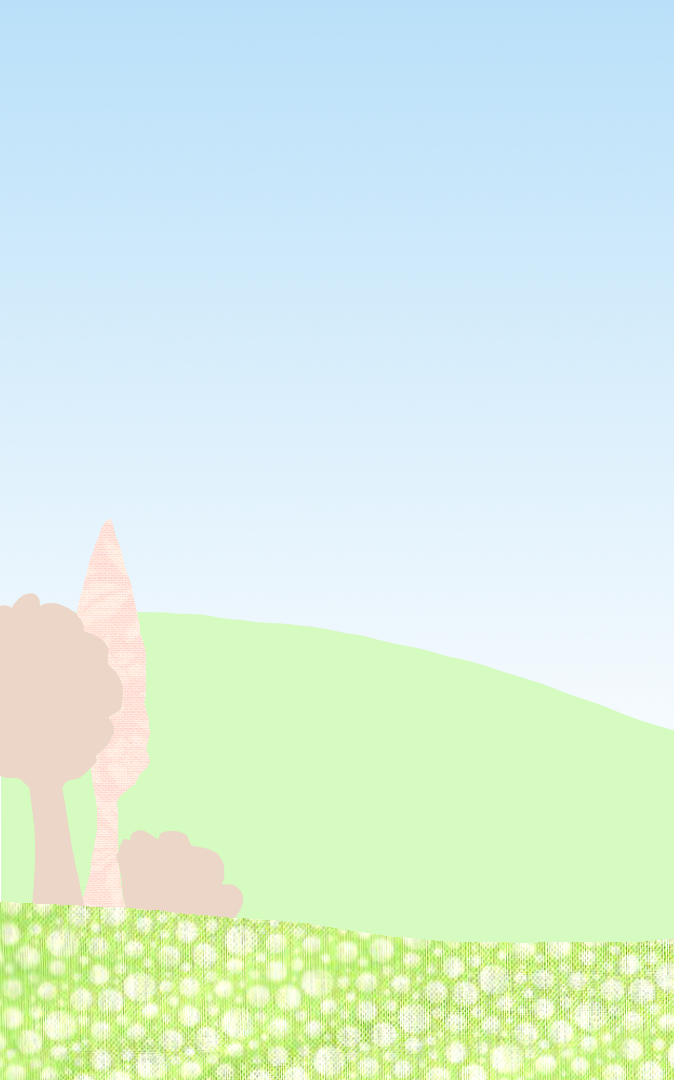
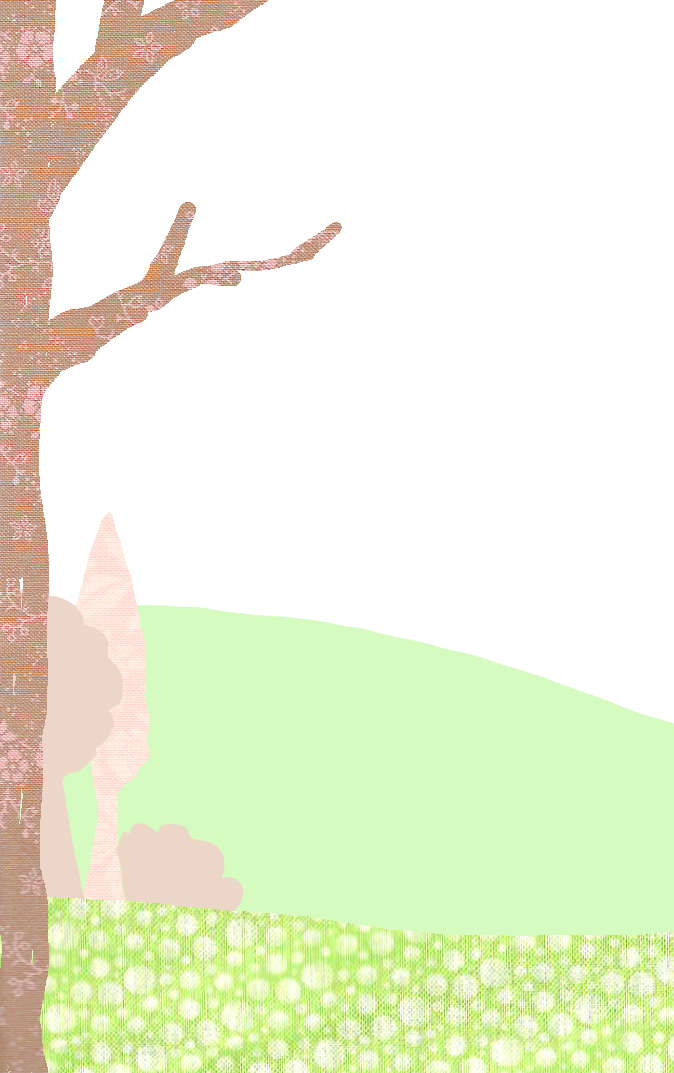
Add animated bg

diff --git a/sources/Game.cpp b/sources/Game.cpp
@@ -53,7 +53,7 @@ class Game::Data {
 		}
 
 		GameState state;
-		Entity background;
+		Entity background, sky;
 		float time;
 		// drag/drop
 		HUDManager hud;
@@ -82,8 +82,17 @@ void Game::init(int windowW, int windowH) {
 	theRenderingSystem.setWindowSize(windowW, windowH);
 
 	theGridSystem.GridSize = GRIDSIZE;
+
+	datas->sky = theEntityManager.CreateEntity();
+	theTransformationSystem.Add(datas->sky);
+	TRANSFORM(datas->sky)->z = -1;
+	theRenderingSystem.Add(datas->sky);
+	RENDERING(datas->sky)->size = Vector2(10, 10.0 * windowH / windowW);
+	RENDERING(datas->sky)->texture = theRenderingSystem.loadTextureFile("sky.png");
+	
 	datas->background = theEntityManager.CreateEntity();
 	theTransformationSystem.Add(datas->background);
+	TRANSFORM(datas->background)->z = 0;
 	theRenderingSystem.Add(datas->background);
 	RENDERING(datas->background)->size = Vector2(10, 10.0 * windowH / windowW);
 	RENDERING(datas->background)->texture = theRenderingSystem.loadTextureFile("background.png");

diff --git a/sources/states/BackgroundManager.cpp b/sources/states/BackgroundManager.cpp
@@ -21,6 +21,7 @@ BackgroundManager::Cloud* BackgroundManager::initCloud(Cloud* c) {
 	float t = MathUtil::RandomFloat();
 	TRANSFORM(c->e)->position.X = xStartRange.Length() * MathUtil::RandomFloat() + xStartRange.X;
 	TRANSFORM(c->e)->position.Y = t * yRange.Length() + yRange.X;
+	TRANSFORM(c->e)->z = -0.5;
 	std::stringstream tex;
 	tex << "cloud" << 1+MathUtil::RandomInt(3) << ".png";
 	RENDERING(c->e)->texture = theRenderingSystem.loadTextureFile(tex.str());

diff --git a/sources/tilematch-linux.cpp b/sources/tilematch-linux.cpp
@@ -37,7 +37,7 @@ int main() {
 	if (!glfwInit())
 		return 1;
 
-	if( !glfwOpenWindow( 420,700, 0,0,0,0,0,0, GLFW_WINDOW ) )
+	if( !glfwOpenWindow( 420,700, 8,8,8,8,8,1, GLFW_WINDOW ) )
 		return 1;
 	
 	gettimeofday(&startup_time,NULL);
